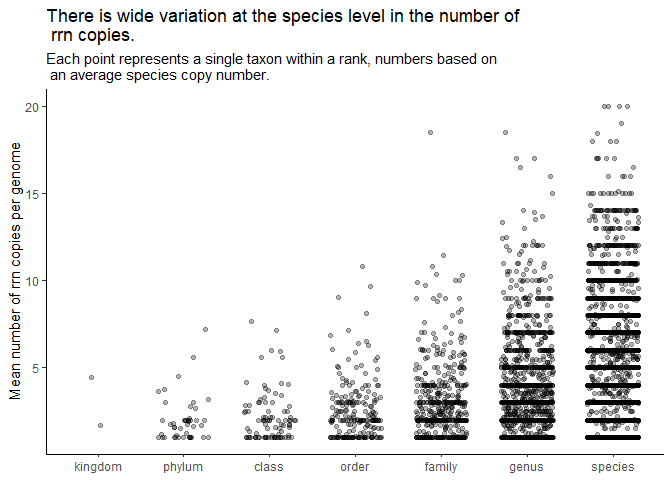
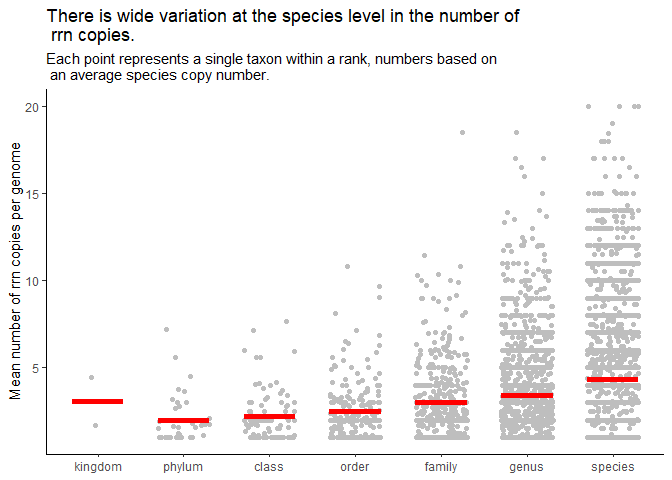
Edit final plot to overlay plot types and data frames.

diff --git a/exploratory/2022-10-29_rrn_per_rank.md b/exploratory/2022-10-29_rrn_per_rank.md
@@ -12,13 +12,8 @@ library(here)
 metadata <- read_tsv(here("data/references/genome_id_taxonomy.tsv"),
                      col_types = cols(.default = col_character())) %>% 
   mutate(strain = if_else(species == scientific_name, NA_character_, scientific_name)) %>% 
-  select(-scientific_name)# %>% 
-  #pivot_longer(-genome_id, names_to="rank", values_to="taxon") %>% 
-  #drop_na(taxon) %>% 
-  #mutate(rank = factor(rank,
-  #                     levels = c("kingdom", "phylum", "class", "order", 
-  #                               "family", "genus", "species", "strain")))
-  #
+  select(-scientific_name)
+
 asv <- read_tsv(here("data/processed/rrnDB.count_tibble"),
                 col_types = cols(.default = col_character(),
                                  count = col_integer()))
@@ -55,9 +50,17 @@ rrn_per_taxon <- metadata_asv %>%
   group_by(rank, taxon) %>% 
   summarise(mean_rrns = mean(mean_rrns), .groups = "drop")
 
+mean_of_means <- rrn_per_taxon %>% 
+  group_by(rank) %>% 
+  summarise(mean_mean_rrns = mean(mean_rrns), .groups = "drop")
+
 rrn_per_taxon %>% 
   ggplot(aes(x = rank, y = mean_rrns)) +
-  geom_jitter(width = 0.3, alpha = 0.3) +
+  geom_jitter(width = 0.3, color = "grey") +
+  geom_segment(data = mean_of_means,
+               aes(x = 1:7-0.3, xend = 1:7+0.3,
+                   y = mean_mean_rrns, yend = mean_mean_rrns),
+               color = "red", group = 1, size = 2) +
   theme_classic() +
   labs(x = NULL, 
        y = "Mean number of rrn copies per genome",
